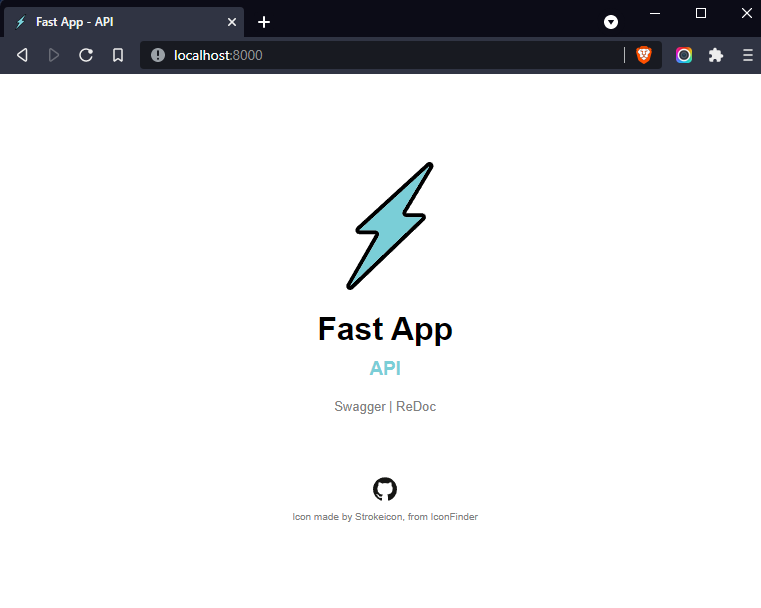
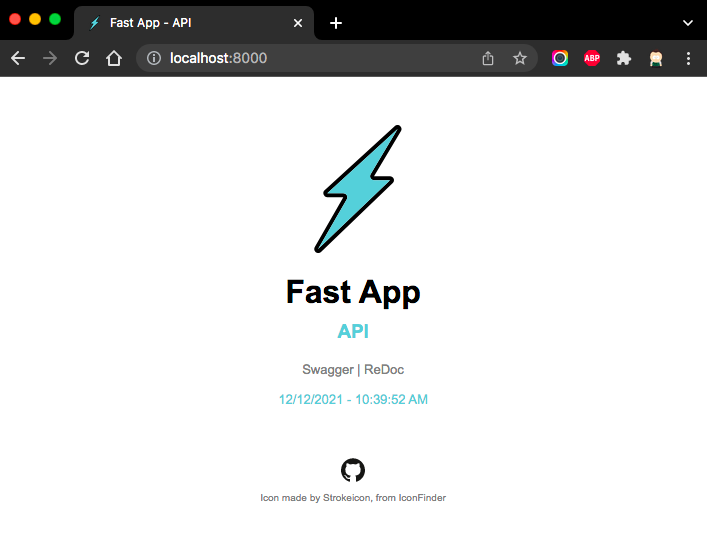
feat: Updating Docs and Index page.

diff --git a/static/index.html b/static/index.html
@@ -21,7 +21,7 @@
 
         #logo {
             width: 128px;
-            margin: 5em auto 0 auto;
+            margin: 3em auto 0 auto;
             display: block;
         }
 
@@ -63,6 +63,11 @@
         p > a:hover {
             color: #7ACED7;
         }
+
+        #clock {
+            color: #7ACED7;
+            font-size: small;
+        }
     </style>
 </head>
 
@@ -74,6 +79,7 @@
     <p>
         <a href="/docs">Swagger</a> | <a href="/redoc">ReDoc</a>
     </p>
+    <span id="clock">...</span>
 </div>
 <div id="footer">
     <a id="github" href="https://github.com/avcaliani">
@@ -86,4 +92,11 @@
 </div>
 </body>
 
+<script type="application/javascript">
+    const span = document.getElementById('clock');
+    setInterval(
+        () => span.textContent = new Date().toLocaleString().replace(",", " -"),
+        1000
+    );
+</script>
 </html>

diff --git a/README.md b/README.md
@@ -7,7 +7,16 @@
 
 ## Quick Start
 
-Before starting, create a Dynaconf secrets file as follows.
+Create your Python virtual environment...
+
+```bash
+python -m venv .venv \
+    && source .venv/bin/activate \
+    && pip install --upgrade pip \
+    && poetry install
+```
+
+Then, create a Dynaconf secrets file as follows.
 
 ```bash
 echo "
